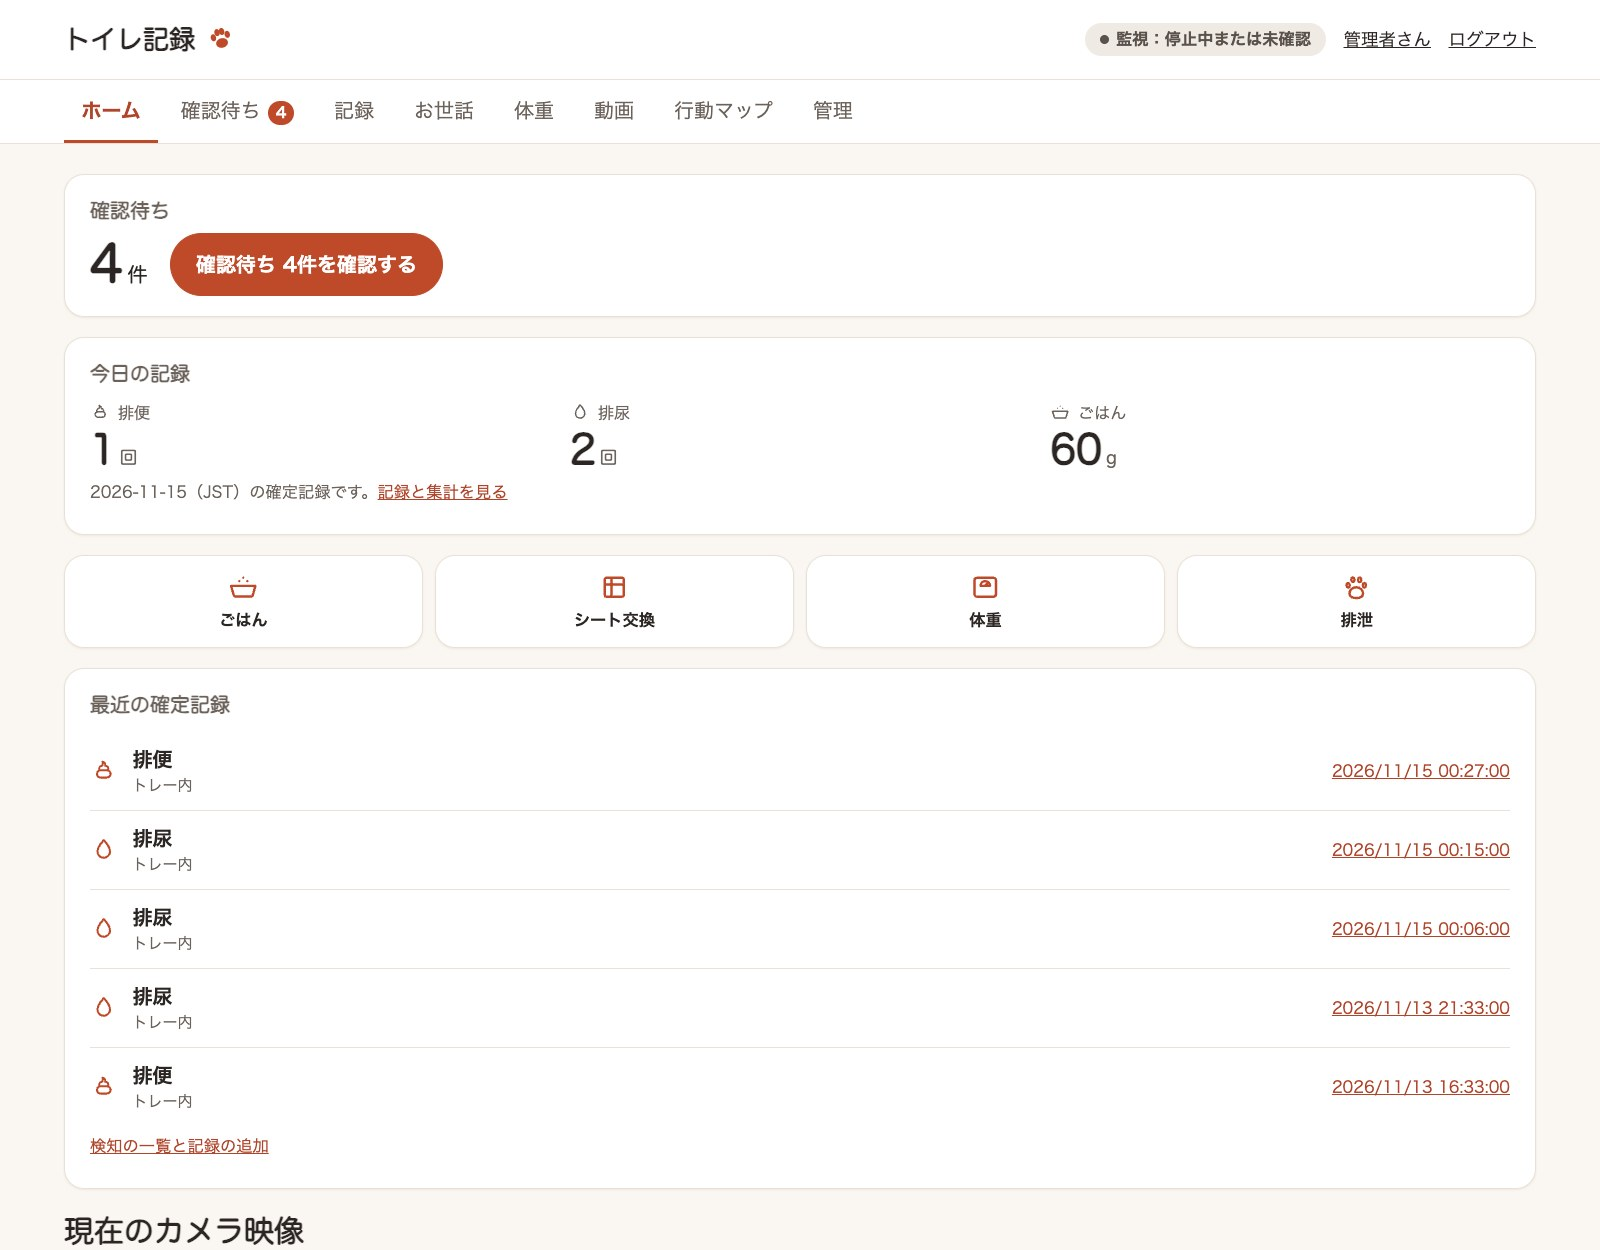
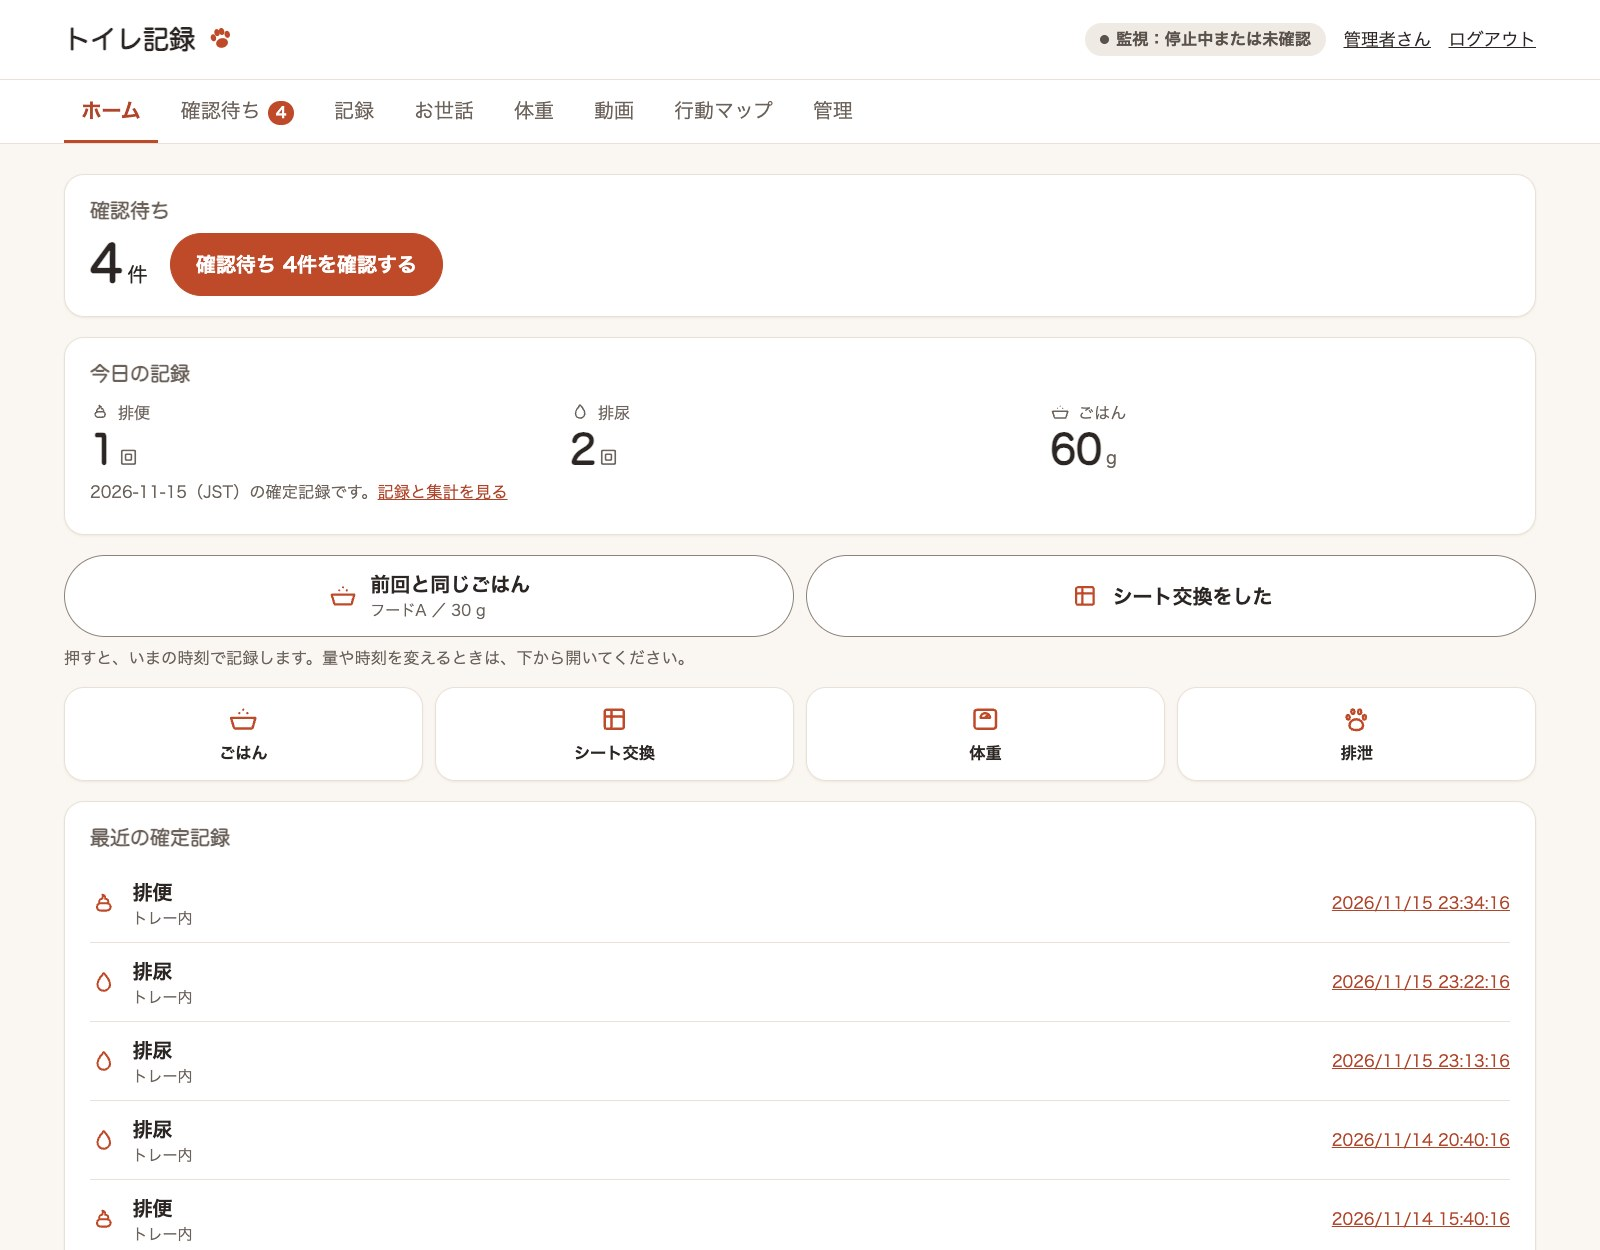
feat: ホームから1回押して給餌・シート交換を記録する (#169)
- ホームに「前回と同じごはん」「シート交換をした」のボタンを足す（POST /care/quick）
- いまの時刻で記録し、何を記録したかと「直す」への入口をホームに出す
- 同じ人が30秒以内に同じ種類を押し直しても、二重には記録しない
- 前回の給餌がなければ、給餌のボタンを出さず、入力欄のある画面を開く
- ホームのスクリーンショットを撮り直す

Closes #162

diff --git a/src/poop_detector/gui/templates/style.css b/src/poop_detector/gui/templates/style.css
@@ -113,6 +113,7 @@ main table{max-width:100%}main th{font-size:13px;font-weight:600;color:var(--mut
 .workspace.reviewing{grid-template-columns:minmax(0,1fr)}
 main>.card{margin-bottom:16px}.card>h2{font-size:16px;margin:0 0 10px;color:var(--muted)}
 .home-review{display:flex;flex-wrap:wrap;align-items:center;gap:6px 18px}.home-review>h2{margin:0;flex:1 0 100%}.home-review>p{margin:0}.home-review-count{font-family:var(--font-display);font-size:16px}.home-review-count strong{font-size:40px;line-height:1;margin-right:4px}
+.quick-record{display:grid;grid-template-columns:repeat(auto-fit,minmax(200px,1fr));gap:10px}.quick-record button{display:flex;align-items:center;justify-content:center;gap:10px;min-height:56px;text-align:left}.quick-record .icon{width:24px;height:24px;color:var(--primary)}.quick-record small{font-weight:400;margin:0}.quick-note{margin:6px 0 12px}
 .quick{display:grid;grid-template-columns:repeat(auto-fit,minmax(72px,1fr));gap:10px;margin-bottom:16px}.quick a{display:flex;flex-direction:column;align-items:center;gap:4px;padding:12px 4px;background:var(--surface);border:1px solid var(--border);border-radius:var(--radius);color:var(--text);font-size:13px;font-weight:600;text-decoration:none;box-shadow:var(--shadow)}.quick a:hover{background:var(--primary-soft)}.quick .icon{width:26px;height:26px;color:var(--primary)}
 .timeline{list-style:none;padding:0;margin:0}.timeline li{display:flex;align-items:center;gap:12px;padding:10px 0;border-bottom:1px solid var(--border)}.timeline li:last-child{border-bottom:0}.timeline .icon{width:22px;height:22px;color:var(--primary)}.timeline-what{flex:1;font-weight:600}.timeline-what small{font-weight:400;margin:0}.timeline a{font-size:13px;white-space:nowrap}.timeline li{flex-wrap:wrap}.timeline-time{font-size:13px;color:var(--muted);white-space:nowrap}.timeline-what{min-width:8em}.timeline-what small{overflow-wrap:anywhere}
 .record-list{background:var(--surface);border:1px solid var(--border);border-radius:var(--radius);padding:4px 18px;box-shadow:var(--shadow)}.card>.stats+.timeline{margin-top:14px;border-top:1px solid var(--border)}

diff --git a/src/poop_detector/gui/templates/home.html b/src/poop_detector/gui/templates/home.html
@@ -1,7 +1,8 @@
 {#- ホーム。主役は確認待ちの1つだけで、今日の数字、1回押して記録する入口、最近の記録を並べる（Issue 141）。 -#}
 {% extends "base.html" %}
-{% from "_macros.html" import capacity_panel, chip, empty_state, icon, stat %}
+{% from "_macros.html" import capacity_panel, chip, csrf_field, empty_state, icon, stat %}
 {% block content %}
+{% if recorded %}<p class="message" role="status">{{ recorded.text }}を記録しました。<a href="{{ recorded.url }}">直す</a></p>{% endif %}
 <section class="card home-review" aria-labelledby="review-title">
 <h2 id="review-title">確認待ち</h2>
 {% if pending %}<p class="home-review-count"><strong>{{ pending }}</strong>件</p>
@@ -13,6 +14,11 @@
 <div class="stats">{{ stat("排便", daily.feces, "回", "feces") }}{{ stat("排尿", daily.urine, "回", "urine") }}{{ stat("ごはん", food_grams, "g", "food") }}{% if daily.unspecified %}{{ stat("種類不明", daily.unspecified, "回", "paw") }}{% endif %}</div>
 <p class="note">{{ today }}（{{ timezone }}）の確定記録です。<a href="/records">記録と集計を見る</a></p>
 </section>
+<form method="post" action="/care/quick" class="quick-record" aria-label="1回押して記録する">{{ csrf_field(token) }}
+{% if quick_feed %}<button class="secondary" name="kind" value="feeding">{{ icon("food") }}<span>前回と同じごはん<small>{{ quick_feed }}</small></span></button>{% endif %}
+<button class="secondary" name="kind" value="sheet">{{ icon("sheet") }}<span>シート交換をした</span></button>
+</form>
+<p class="note quick-note">押すと、いまの時刻で記録します。量や時刻を変えるときは、下から開いてください。</p>
 <nav class="quick" aria-label="記録する">
 {%- for href, name, text in quick -%}
 <a href="{{ href }}">{{ icon(name) }}{{ text }}</a>

diff --git a/tests/test_gui_care.py b/tests/test_gui_care.py
@@ -134,3 +134,97 @@ def test_day_view_is_one_timeline_with_totals(gui):
     for text in ("給餌", "シート交換", "排尿", "体重", "1,850 g", "25.5 g", "母"):
         assert text in listing, text
     assert listing.count('<svg class="icon"') == 5
+
+
+# ホームから1回押して記録する（#162）。前回と同じ給餌と、シート交換。
+def quick(server, cookie, kind):
+    import re
+    from urllib.parse import urlencode
+
+    from support import exchange
+
+    html = exchange(server, "GET", "/", headers=cookie, auth=False)[2].decode()
+    token = re.search(r'name="csrf" value="([^"]+)"', html)[1]
+    form = {"Content-Type": "application/x-www-form-urlencoded", **cookie}
+    body = urlencode({"kind": kind, "csrf": token})
+    status, headers, _ = exchange(server, "POST", "/care/quick", body, form, auth=False)
+    return status, headers.get("Location", "")
+
+
+def home(server, cookie, path="/"):
+    from support import exchange
+
+    status, _, body = exchange(server, "GET", path, headers=cookie, auth=False)
+    assert status == 200, path
+    return body.decode()
+
+
+def test_home_repeats_the_last_feeding_in_one_tap(gui):
+    import re
+
+    from poop_detector.records.care import CareEntry, entries, save_entry
+    from poop_detector.timezones import local_now, local_today
+
+    server, store, _ = gui
+    mother = login(server, name="母", role="member")
+    earlier = local_now().replace(microsecond=0)
+    save_entry(store.database, CareEntry("", earlier, "feeding", "父", "", "フードA", 305))
+    html = home(server, mother)
+    form = re.search(r'<form method="post" action="/care/quick".*?</form>', html, re.S)[0]
+    assert '<button class="secondary" name="kind" value="feeding">' in form
+    assert "前回と同じごはん" in form
+    assert "フードA" in form
+    assert "30.5 g" in form
+    status, location = quick(server, mother, "feeding")
+    assert status == 303
+    rows = [row for row in entries(store.database, local_today()) if row.kind == "feeding"]
+    assert len(rows) == 2
+    new = next(row for row in rows if row.actor == "母")
+    assert (new.food, new.amount_dg) == ("フードA", 305)
+    assert location == f"/?recorded={new.id}"
+    done = home(server, mother, location)
+    notice = re.search(r'<p class="message" role="status">.*?</p>', done, re.S)[0]
+    assert "ごはん（フードA ／ 30.5 g）を記録しました" in notice
+    assert f'href="/care?day={local_today().isoformat()}&amp;id={new.id}"' in notice
+    # ほかの人や古い ID では、知らせを出さない。
+    assert 'class="message"' not in home(server, mother, "/?recorded=unknown")
+
+
+def test_home_records_a_sheet_change_in_one_tap(gui):
+    from poop_detector.records.care import entries
+    from poop_detector.timezones import local_today
+
+    server, store, _ = gui
+    cookie = login(server, name="母", role="member")
+    assert '<button class="secondary" name="kind" value="sheet">' in home(server, cookie)
+    status, location = quick(server, cookie, "sheet")
+    assert status == 303
+    (row,) = entries(store.database, local_today())
+    assert (row.kind, row.actor) == ("sheet", "母")
+    assert "シート交換を記録しました" in home(server, cookie, location)
+
+
+def test_quick_feeding_without_a_previous_one_opens_the_form(gui):
+    from poop_detector.records.care import entries
+    from poop_detector.timezones import local_today
+
+    server, store, _ = gui
+    cookie = login(server, role="member")
+    assert 'name="kind" value="feeding"' not in home(server, cookie)
+    assert quick(server, cookie, "feeding") == (303, "/care#feeding")
+    assert entries(store.database, local_today()) == []
+
+
+def test_quick_record_ignores_a_double_tap_and_unknown_kinds(gui):
+    from poop_detector.records.care import entries
+    from poop_detector.timezones import local_today
+
+    server, store, _ = gui
+    cookie = login(server, name="母", role="member")
+    first = quick(server, cookie, "sheet")
+    assert quick(server, cookie, "sheet") == first
+    assert len(entries(store.database, local_today())) == 1
+    # 別の人が続けて記録したものは、別の記録として残す。
+    assert quick(server, login(server, name="父", role="member"), "sheet")[0] == 303
+    assert len(entries(store.database, local_today())) == 2
+    assert quick(server, cookie, "weight")[0] == 400

diff --git a/src/poop_detector/records/care.py b/src/poop_detector/records/care.py
@@ -11,6 +11,8 @@ from ..timezones import local_now, parse_local, to_local
 from .database import Database
 
 KINDS = {"feeding": "給餌", "sheet": "シート交換"}
+# ホームからの記録で、同じ人の同じ種類の押し直しを二重の記録にしない秒数。
+DOUBLE_TAP_SECONDS = 30
 
 
 @dataclass(frozen=True)
@@ -92,7 +94,8 @@ def entries(database: Database, day: date) -> list[CareEntry]:
     ]
 
 
-def save_entry(database: Database, entry: CareEntry) -> None:
+def save_entry(database: Database, entry: CareEntry) -> str:
+    """記録を足すか訂正し、その ID を返す。"""
     if entry.kind not in KINDS or entry.at > local_now() or len(entry.note) > 500:
         raise InvalidInputError("種類、日時、メモ（500文字以内）を確認してください")
     food = entry.food.strip() if entry.kind == "feeding" else ""
@@ -107,12 +110,56 @@ def save_entry(database: Database, entry: CareEntry) -> None:
                 (stamp, entry.kind, entry.note, food, amount, entry.id),
             ).rowcount:
                 raise InvalidInputError("訂正する記録が見つかりません")
-        else:
-            db.execute(
-                """INSERT INTO care_entries (id, at, kind, actor, note, food, amount_dg)
-                VALUES (?, ?, ?, ?, ?, ?, ?)""",
-                (uuid4().hex, stamp, entry.kind, entry.actor, entry.note, food, amount),
-            )
+            return entry.id
+        identifier = uuid4().hex
+        db.execute(
+            """INSERT INTO care_entries (id, at, kind, actor, note, food, amount_dg)
+            VALUES (?, ?, ?, ?, ?, ?, ?)""",
+            (identifier, stamp, entry.kind, entry.actor, entry.note, food, amount),
+        )
+    return identifier
+
+
+def last_feeding(database: Database) -> tuple[str, int | None] | None:
+    """銘柄か量を入れた直近の給餌の (銘柄, 0.1 g単位の量)。なければ None。"""
+    with database.connect() as db:
+        row = db.execute(
+            """SELECT food, amount_dg FROM care_entries WHERE kind='feeding'
+            AND (food != '' OR amount_dg IS NOT NULL) ORDER BY at DESC, rowid DESC LIMIT 1"""
+        ).fetchone()
+    return (row["food"], row["amount_dg"]) if row else None
+
+
+def feeding_text(food: str, amount_dg: int | None) -> str:
+    """給餌の銘柄と量を、画面に出す1つの文字列にする。"""
+    amount = f"{format_grams(amount_dg)} g" if amount_dg is not None else ""
+    return " ／ ".join(part for part in (food, amount) if part)
+
+
+def quick_entry(database: Database, kind: str, actor: str) -> str | None:
+    """ホームから1回押して記録する。前回と同じ給餌か、シート交換を、いまの時刻で足す。
+
+    記録の ID を返す。同じ人が同じ種類を DOUBLE_TAP_SECONDS 以内に押したときは、足さずに
+    先の記録の ID を返す（押し間違いの二重の記録を防ぐ）。前回の給餌がなければ None。
+    """
+    if kind not in KINDS:
+        raise InvalidInputError("記録する種類を確認してください")
+    now = local_now()
+    since = (now - timedelta(seconds=DOUBLE_TAP_SECONDS)).astimezone(UTC).isoformat()
+    with database.connect() as db:
+        recent = db.execute(
+            """SELECT id FROM care_entries WHERE kind=? AND actor=? AND at >= ?
+            ORDER BY at DESC, rowid DESC LIMIT 1""",
+            (kind, actor, since),
+        ).fetchone()
+    if recent:
+        return str(recent["id"])
+    if kind == "feeding":
+        last = last_feeding(database)
+        if last is None:
+            return None
+        return save_entry(database, CareEntry("", now, kind, actor, "", last[0], last[1]))
+    return save_entry(database, CareEntry("", now, kind, actor, ""))
 
 
 def care_time(value: str) -> datetime:

diff --git a/src/poop_detector/gui/pages.py b/src/poop_detector/gui/pages.py
@@ -6,8 +6,8 @@ from typing import Any, TypeAlias
 from urllib.parse import urlencode
 
 from ..features.outages import OUTAGE_KINDS, Outage, format_duration
+from ..records.care import CareEntry, feeding_text, format_grams, last_feeding
 from ..records.care import entries as care_entries
-from ..records.care import format_grams
 from ..records.events import EXCRETION_LOCATIONS, EXCRETION_TYPES, EventRow, Store
 from ..records.record_stats import summarize_records
 from ..timezones import local_today, parse_local, timezone_label, to_local
@@ -224,6 +224,16 @@ HOME_QUICK: tuple[tuple[str, str, str], ...] = (
 RECORD_ICONS = {"feces": "feces", "urine": "urine"}
 
 
+def _recorded_notice(entry: CareEntry, day: str) -> dict[str, str]:
+    """ホームから記録した直後の知らせ。何を記録したかと、直す画面の URL。"""
+    detail = feeding_text(entry.food, entry.amount_dg) if entry.kind == "feeding" else ""
+    name = "ごはん" if entry.kind == "feeding" else "シート交換"
+    return {
+        "text": f"{name}（{detail}）" if detail else name,
+        "url": f"/care?day={day}&id={entry.id}",
+    }
+
+
 def render_home(
     store: Store,
     disk_mb: float = DEFAULT_DISK_MIB,
@@ -231,12 +241,20 @@ def render_home(
     title: str | None = None,
     pending: int = 0,
     manual_only: bool = False,
+    token: str = "",
+    recorded: str = "",
 ) -> str:
-    """ホーム。確認待ちの件数、今日の回数と給餌量、記録の入口、直近の確定記録、ライブ映像。"""
+    """ホーム。確認待ちの件数、今日の回数と給餌量、記録の入口、直近の確定記録、ライブ映像。
+
+    recorded は、ホームから記録した直後のお世話の記録の ID（知らせと「直す」の入口を出す）。
+    """
     records = store.records()
     today = local_today()
     daily, _, _ = summarize_records(records, today, today)
-    fed = [entry.amount_dg for entry in care_entries(store.database, today) if entry.amount_dg]
+    cared = care_entries(store.database, today)
+    fed = [entry.amount_dg for entry in cared if entry.amount_dg]
+    last = last_feeding(store.database)
+    done = next((entry for entry in cared if recorded and entry.id == recorded), None)
     recent = [
         {
             "time": local_time(row["actual_start"] or row["timestamp"]),
@@ -256,6 +274,9 @@ def render_home(
         today=today,
         daily=daily,
         food_grams=format_grams(sum(fed)),
+        token=token,
+        quick_feed=feeding_text(*last) if last else "",
+        recorded=_recorded_notice(done, today.isoformat()) if done else None,
         quick=HOME_QUICK,
         recent=recent,
         timezone=timezone_label(),

diff --git a/src/poop_detector/gui/care_routes.py b/src/poop_detector/gui/care_routes.py
@@ -14,13 +14,14 @@ from ..records.care import (
     feeding_history,
     format_grams,
     parse_amount,
+    quick_entry,
     save_entry,
 )
 from ..records.events import EXCRETION_TYPES
 from ..records.export import in_period
 from ..records.weights import Weight, parse_day, weights
 from ..timezones import local_now, local_today, to_local
-from .pages import Query
+from .pages import Query, message_page
 from .routes import Form, first, get, post
 from .templating import render_template
 
@@ -164,3 +165,22 @@ def save_care(handler: "Handler", form: Form) -> None:
         _render(handler, day, values.get("id", ""), str(error), dict(values))
         return
     handler.redirect(f"/care?day={stamp.astimezone().date().isoformat()}")
+
+
+@post("/care/quick")
+def quick_care(handler: "Handler", form: Form) -> None:
+    """ホームから1回押して、前回と同じ給餌かシート交換を記録する。"""
+    user = handler.user
+    if user is None:
+        handler.respond(403, "ログインしてください")
+        return
+    try:
+        identifier = quick_entry(handler.app.store.database, form.fields.get("kind", ""), user.name)
+    except InvalidInputError as error:
+        page = message_page(
+            "記録できませんでした", str(error), "/", "ホームへ戻る", title=handler.app.title
+        )
+        handler.respond(400, page)
+        return
+    # 前回の給餌がなければ、銘柄と量を入れる画面を開く。
+    handler.redirect(f"/?recorded={identifier}" if identifier else "/care#feeding")

diff --git a/src/poop_detector/gui/routes.py b/src/poop_detector/gui/routes.py
@@ -147,7 +147,8 @@ def _review_bar(handler: "Handler", query: Query, key: str) -> dict[str, Any] | 
 def home_page(handler: "Handler", _query: Query) -> None:
     """ホーム（ダッシュボード）。問い合わせ文字列付きの古いリンクは検知の一覧へ移す。"""
     query = urlsplit(handler.path).query
-    if query:
+    recorded = first(_query, "recorded")
+    if query and set(_query) != {"recorded"}:
         # 検知の一覧がホームにあった頃の URL（/?filter=…&id=…）。
         handler.redirect(f"{EVENTS_PAGE}?{query}", status=301)
         return
@@ -156,7 +157,13 @@ def home_page(handler: "Handler", _query: Query) -> None:
     handler.respond(
         200,
         render_home(
-            app.store, app.disk_mb, title=app.title, pending=pending, manual_only=app.manual_only
+            app.store,
+            app.disk_mb,
+            title=app.title,
+            pending=pending,
+            manual_only=app.manual_only,
+            token=handler.csrf,
+            recorded=recorded,
         ),
     )
 

diff --git a/docs/screens.md b/docs/screens.md
@@ -17,7 +17,7 @@ GUI の画面の配置と遷移、CLI に残す操作をまとめます（Issue 
 
 | 場所 | URL | 使う人 | 中身 |
 |---|---|---|---|
-| ホーム | `/` | 全員 | 確認待ちの件数（塗りのボタンはこれ1つ）、今日の排便・排尿の回数と給餌量、1回押して開く記録の入口（ごはん・シート交換・体重・排泄）、最近の確定記録、ライブ映像と直近の自動判定、録画容量 |
+| ホーム | `/` | 全員 | 確認待ちの件数（塗りのボタンはこれ1つ）、今日の排便・排尿の回数と給餌量、1回押して記録するボタン（前回と同じ給餌・シート交換。`/care/quick`。いまの時刻で記録し、記録した内容と「直す」への入口を出す。同じ人が30秒以内に同じ種類を押し直しても、二重には記録しない。前回の給餌がなければ、給餌のボタンは出さない）、入力欄のある画面を開く入口（ごはん・シート交換・体重・排泄）、最近の確定記録、ライブ映像と直近の自動判定、録画容量 |
 | 体重の記録 | `/weight` | 全員 | g・kgでの測定入力と訂正、生年月日、最新の体重（大きな数字と前回比）と推移のグラフ |
 | お世話の記録 | `/care` | 全員 | フードの銘柄・給餌量の入力、シート交換。日ごとに、給餌量の合計とシート交換の回数、その日のお世話・体重・排泄を1本の時系列で見せる |
 | 確認待ち | `/review` | 全員 | 未ラベルの検知イベントと、排泄に関わる未ラベルの動画を新しい順に並べる。保存すると次の件を開く |
